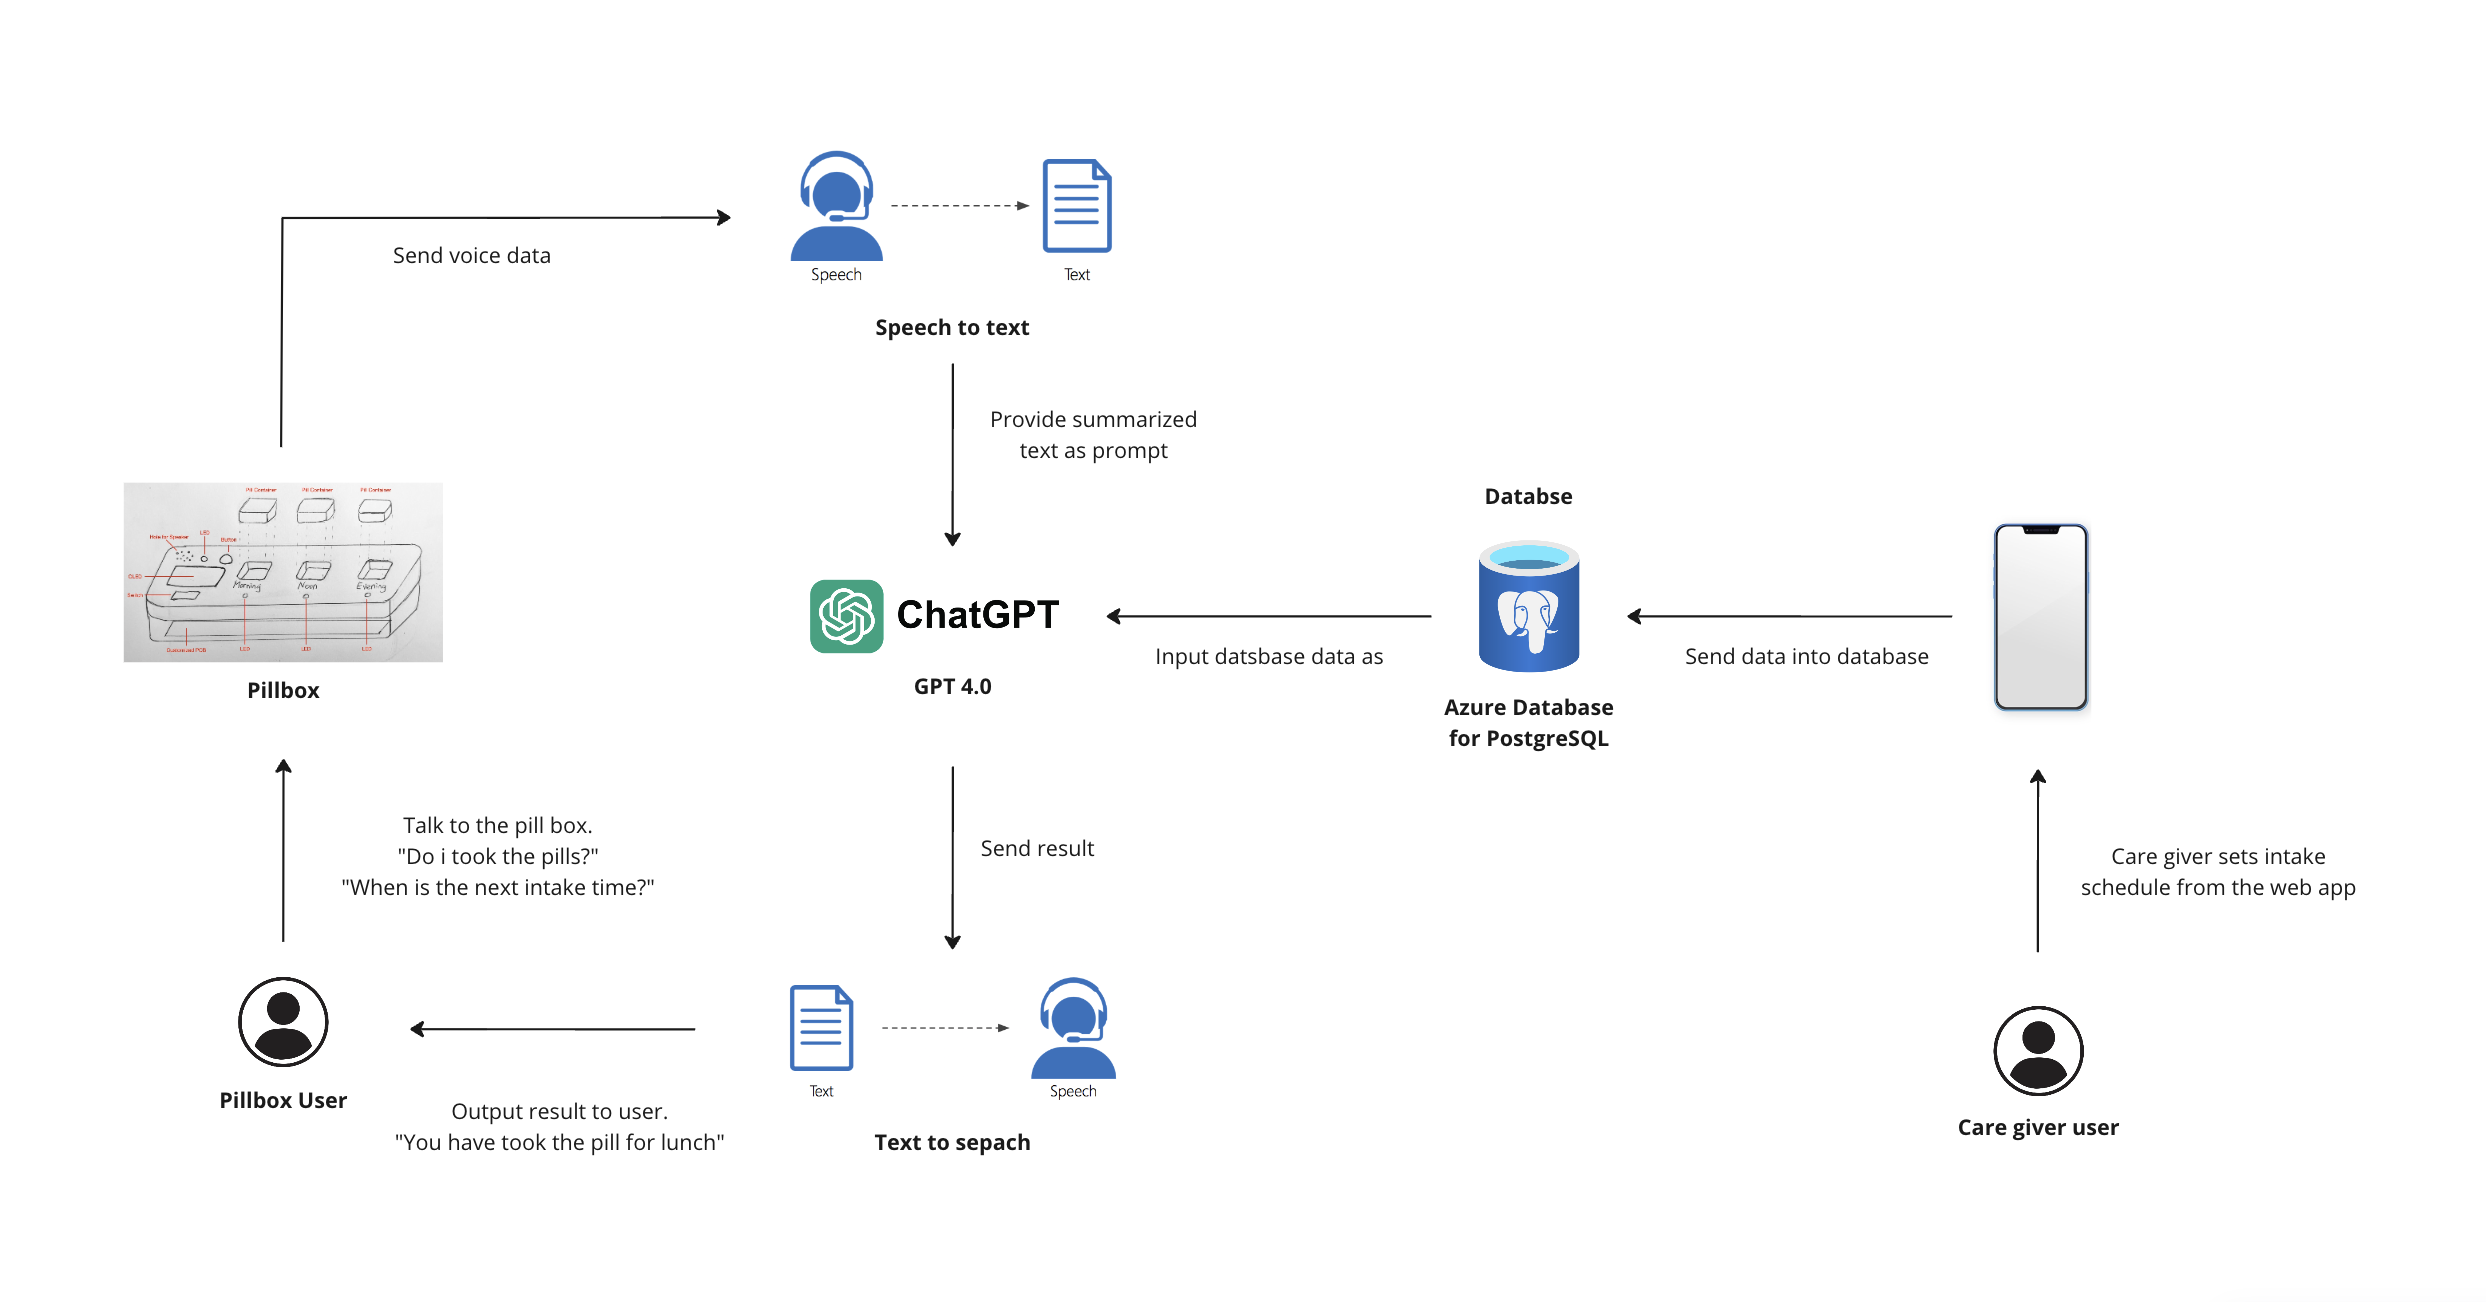
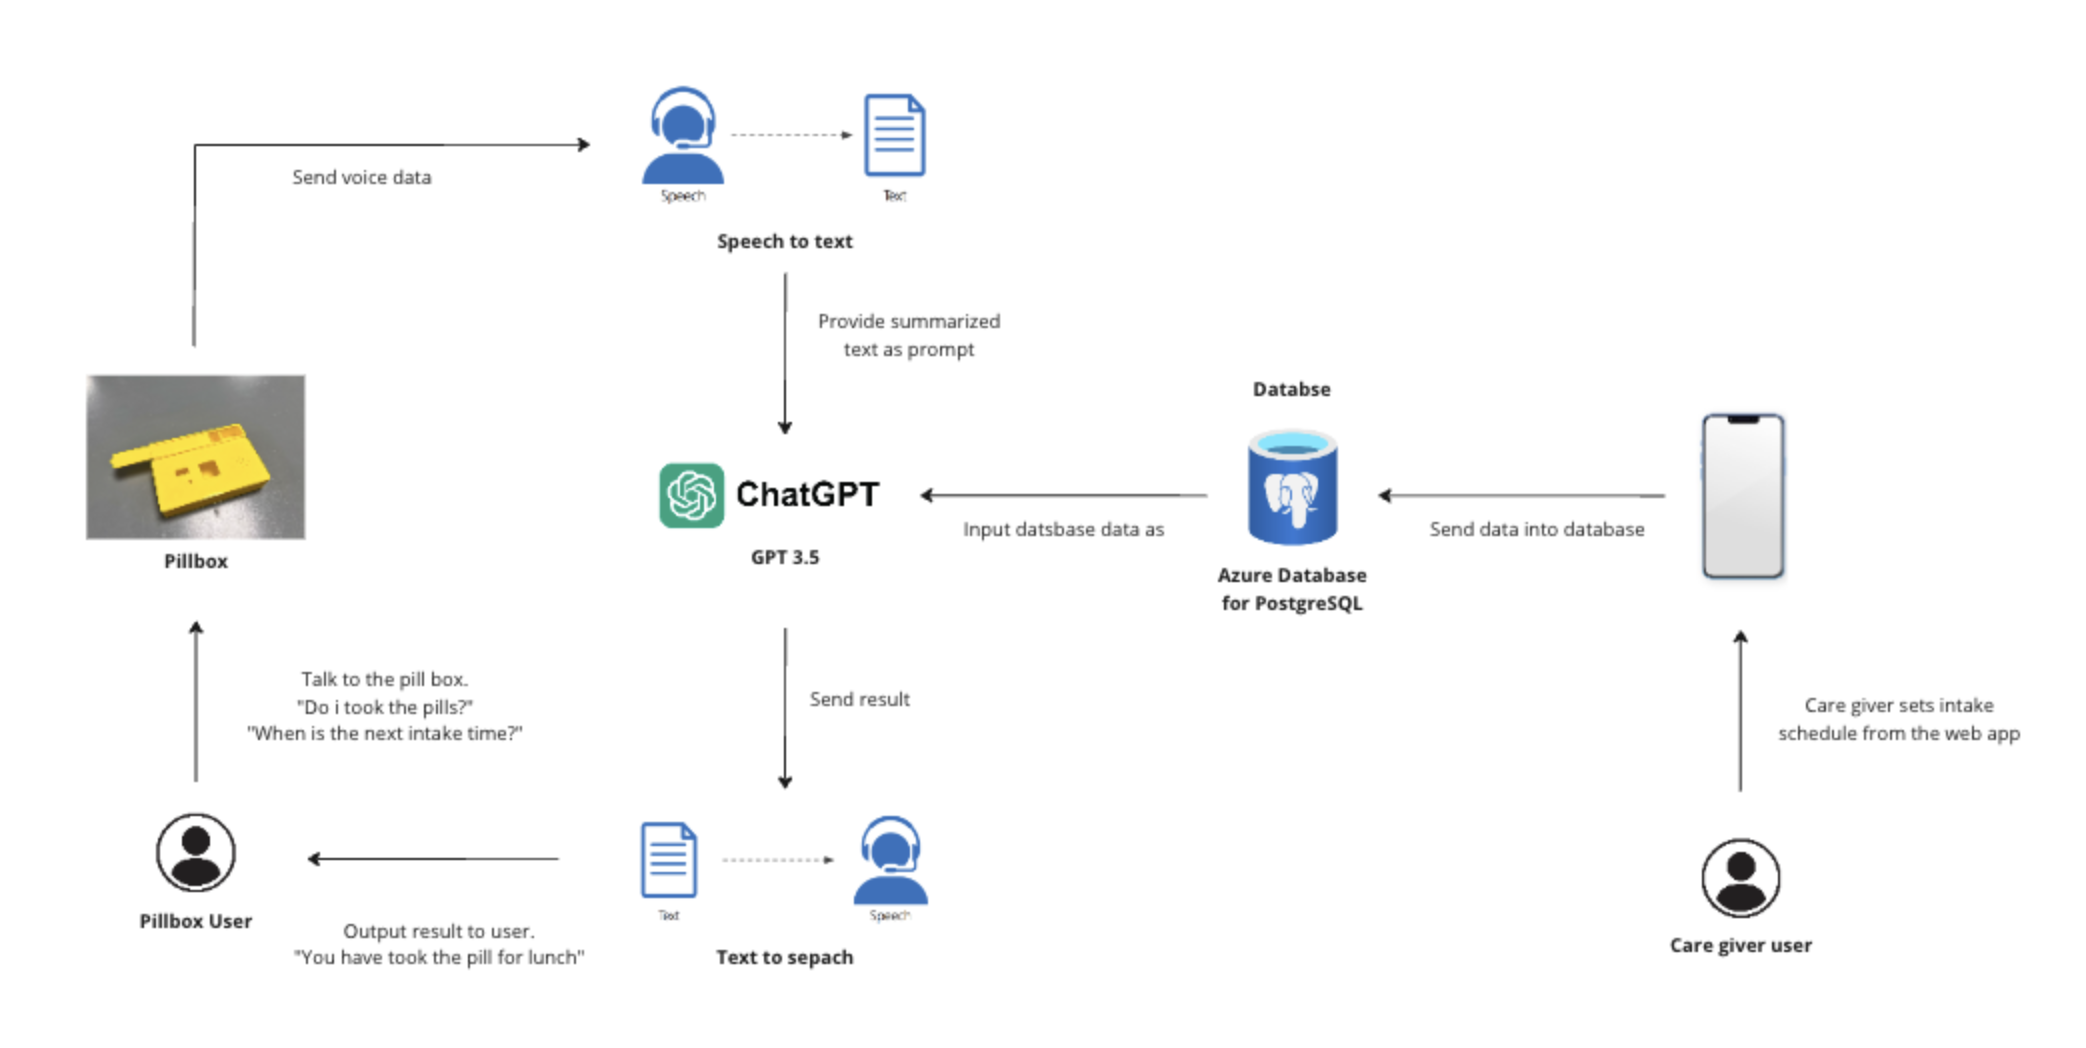
update assets

diff --git a/README.md b/README.md
@@ -1,26 +1,30 @@
-# Smart pill box
+# Medibox
 
 ## Introduction
+
 Medication adherence is a significant challenge in the realm of healthcare. Non-adherence can lead to consequences such as ineffective treatment, deteriorated health conditions, etc. Despite this obvious problem, satisfactory solutions are lacking. Traditional pill dispensers lack the capabilities to help individuals in accurately managing their medications.
 
 **Therefore, with this project, we aim to develop a smart pill dispenser to help individuals in effectively managing and adhering to their medications and supplements.**
 
-## Table of Contents  
+## Table of Contents
+
 - UI
 - workflow
 - hardware design
 - software design
 
-## UI 
-![wireframe](./assets/ui.png)
+## UI
+
+![ui](./assets/ui.png)
 
 ## Workflow
+
 ![workflow](./assets/workflow.png)
 
 ## Hardware Design
+
 ![hardware](./assets/hardware.png)
 
 ## Software Design
+
 ![software](./assets/software.png)
-
-
